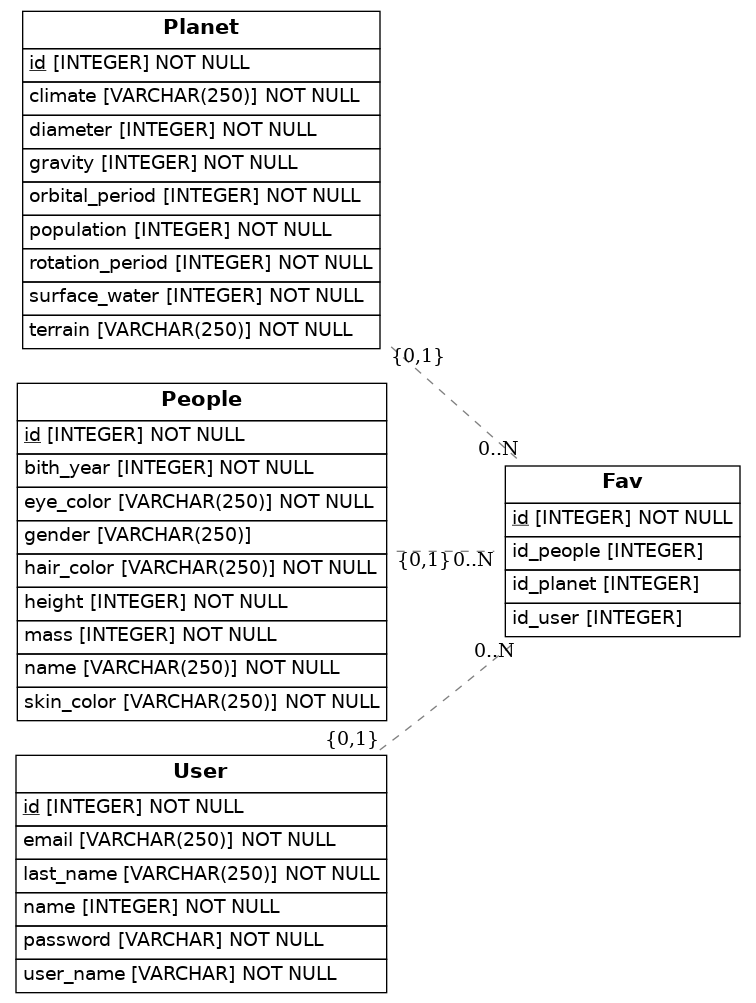
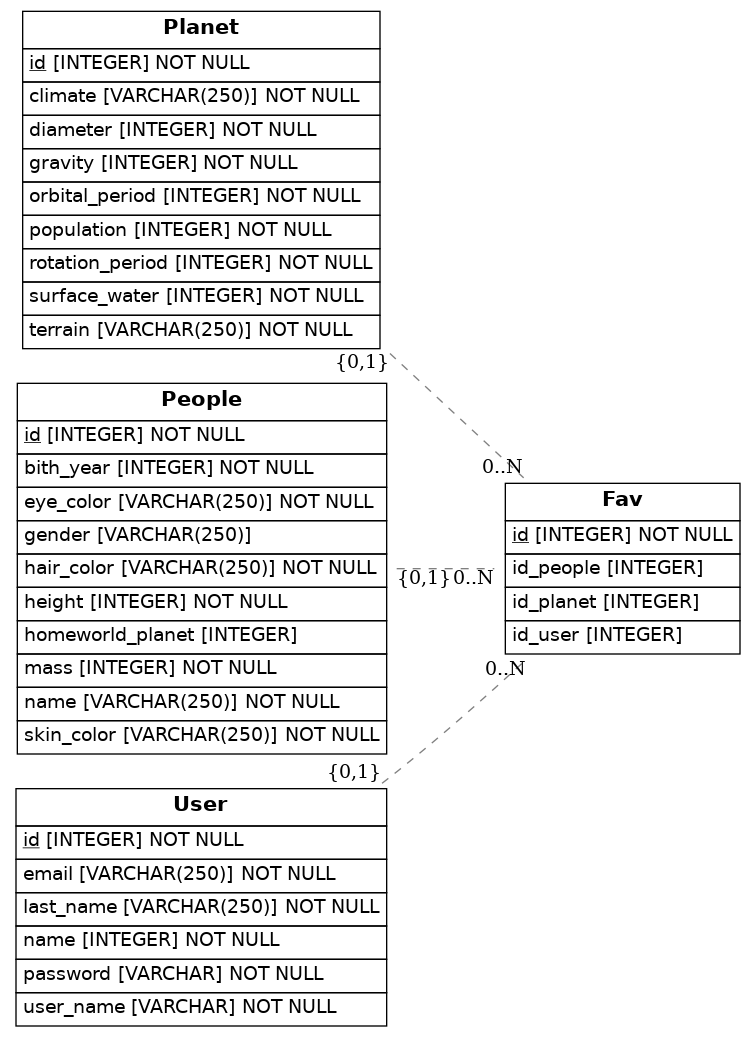
pruebas

Changed region(s): [[0.0304, 0.0, 0.578, 1.0], [0.6389, 0.4327, 0.9735, 0.68]]

diff --git a/src/models.py b/src/models.py
@@ -9,8 +9,6 @@ from eralchemy2 import render_er
 Base = declarative_base()
 
 
-    
-
 class Planet(Base):
     __tablename__ = 'Planet'
     # Definimos las columnas de la tabla Planet
@@ -23,6 +21,7 @@ class Planet(Base):
     terrain = Column(String(250), nullable=False)
     surface_water = Column(Integer, nullable=False)
     population = Column(Integer, nullable=False)
+
 
 class People(Base):
     __tablename__ = 'People'
@@ -37,8 +36,9 @@ class People(Base):
     eye_color = Column(String(250), nullable=False)
     bith_year = Column(Integer, nullable=False)
     gender = Column(String(250))
-    homeworld = Column(Integer, ForeignKey('planet.id'))
-    homeworld = relationship(Planet)
+    homeworld_planet = Column(Integer, ForeignKey('planet.id'))
+    planet = relationship(Planet)
+
 
 class User(Base):
     __tablename__ = 'User'
@@ -49,6 +49,7 @@ class User(Base):
     name = Column(Integer, nullable=False)
     last_name = Column(String(250), nullable=False)
     email = Column(String(250), nullable=False)
+
 
 class Fav(Base):
     __tablename__ = 'Fav'
@@ -61,16 +62,10 @@ class Fav(Base):
     id_people = Column(Integer, ForeignKey('People.id'))
     people = relationship(People)
 
-  
-
-   
-
-
-
-
     def to_dict(self):
         return {}
 
 
-## Draw from SQLAlchemy base
+# Draw from SQLAlchemy base
 render_er(Base, 'diagram.png')
+
